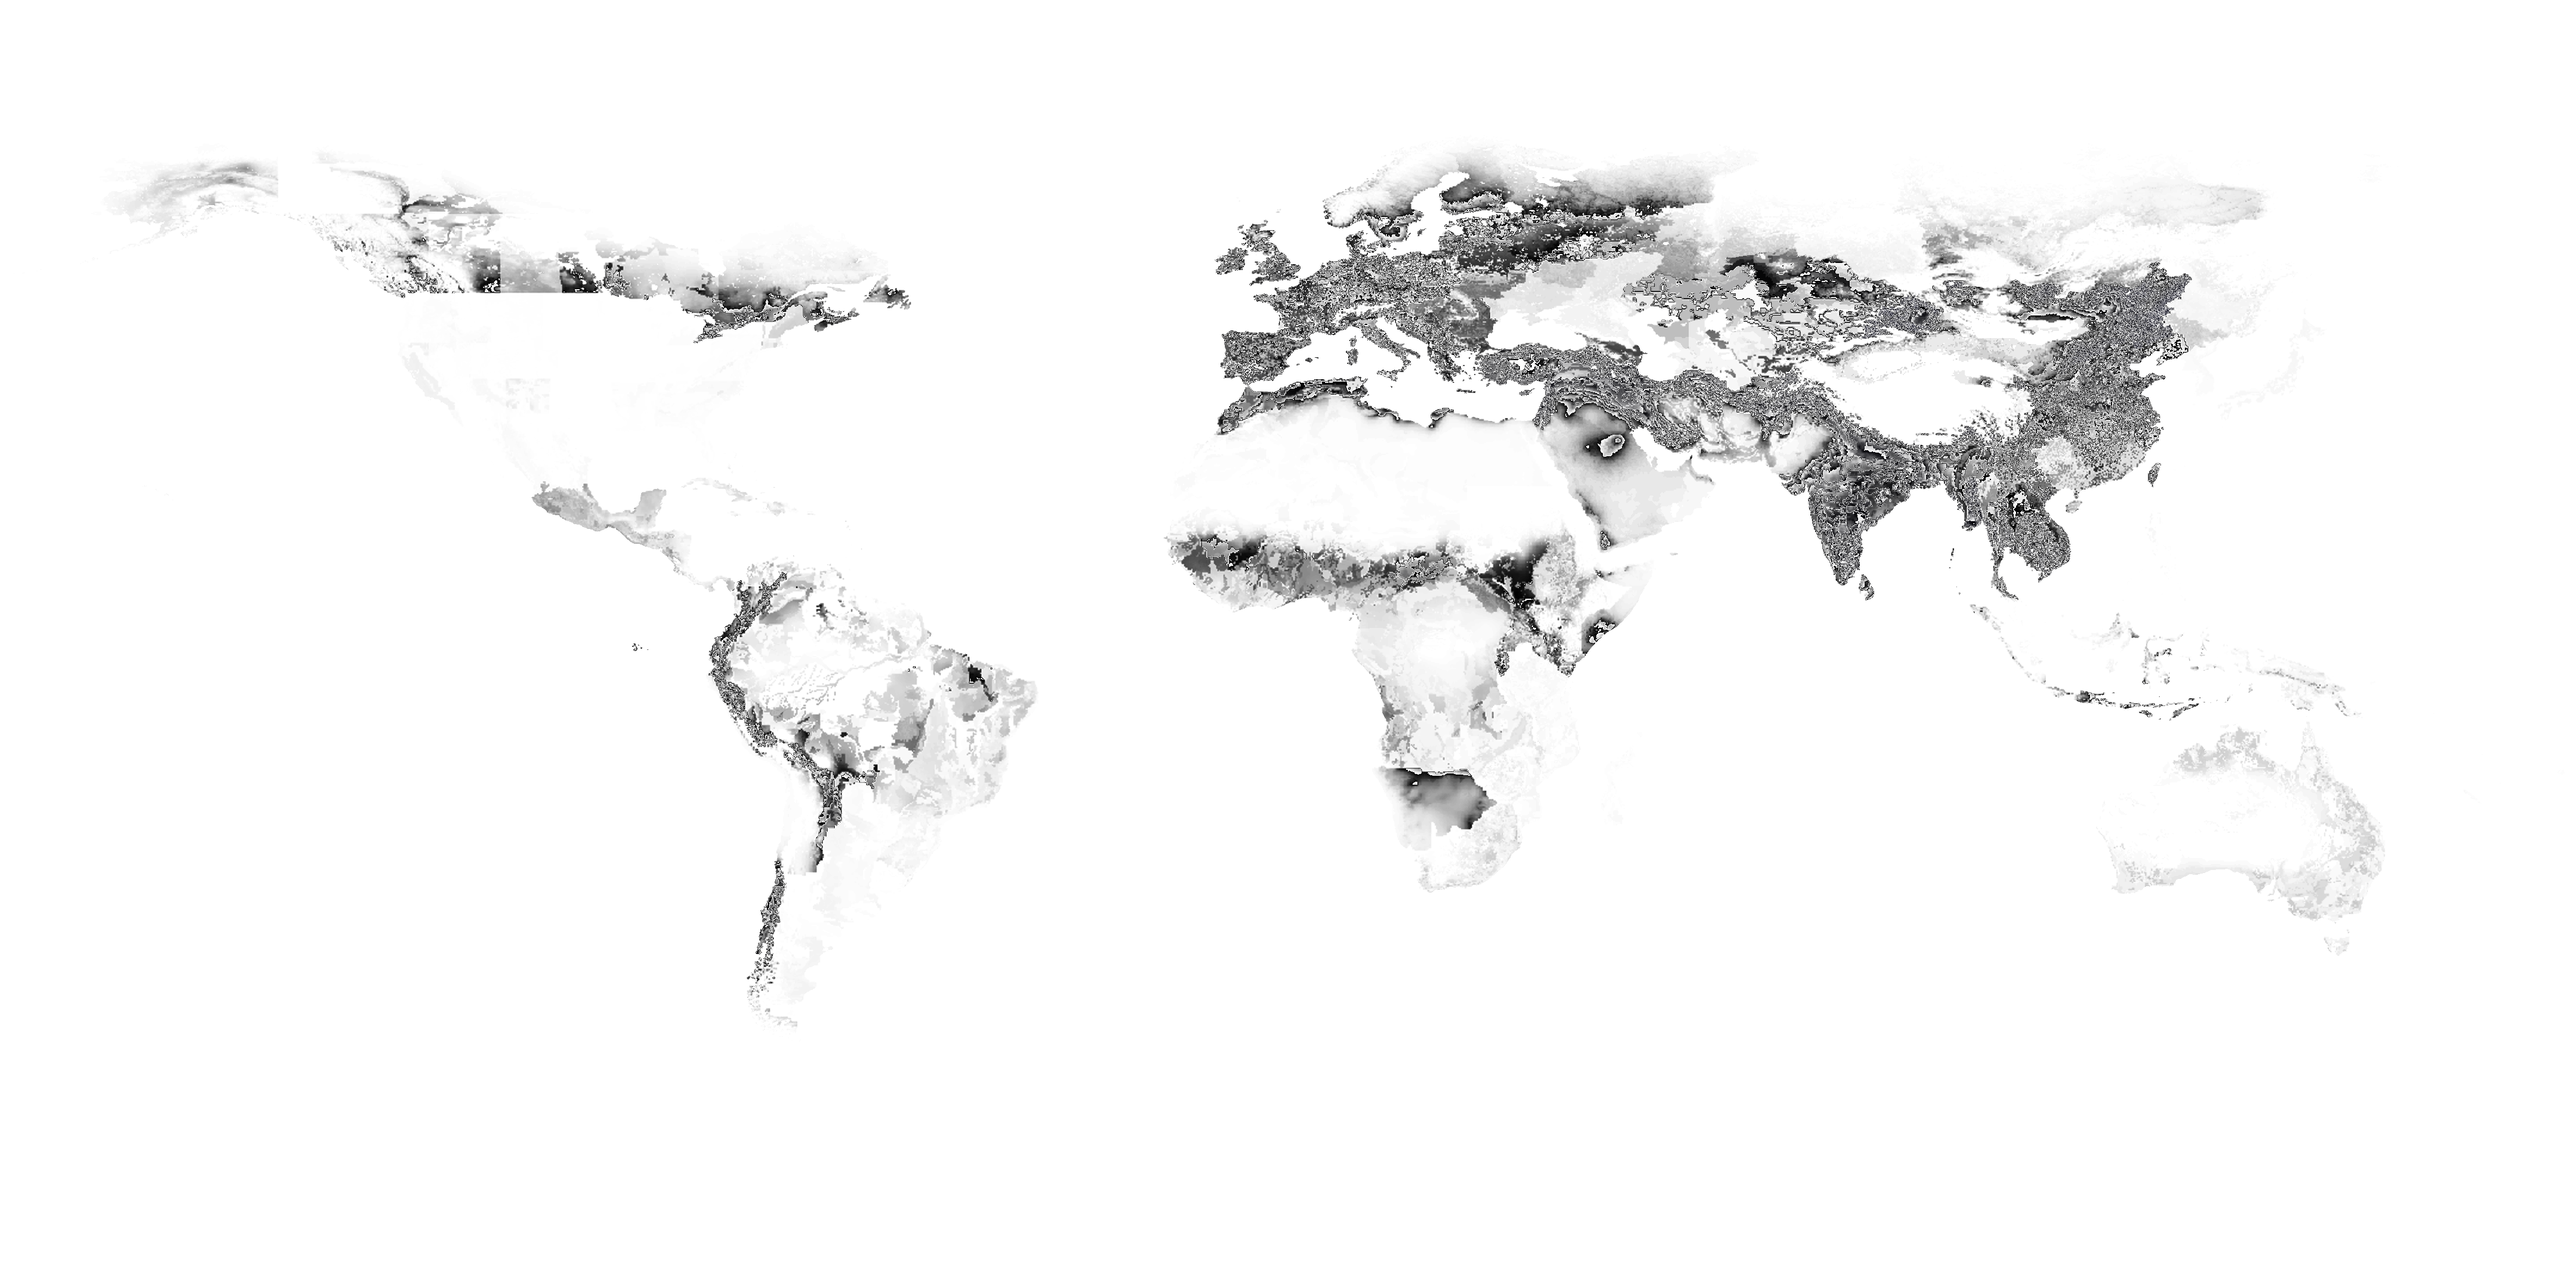
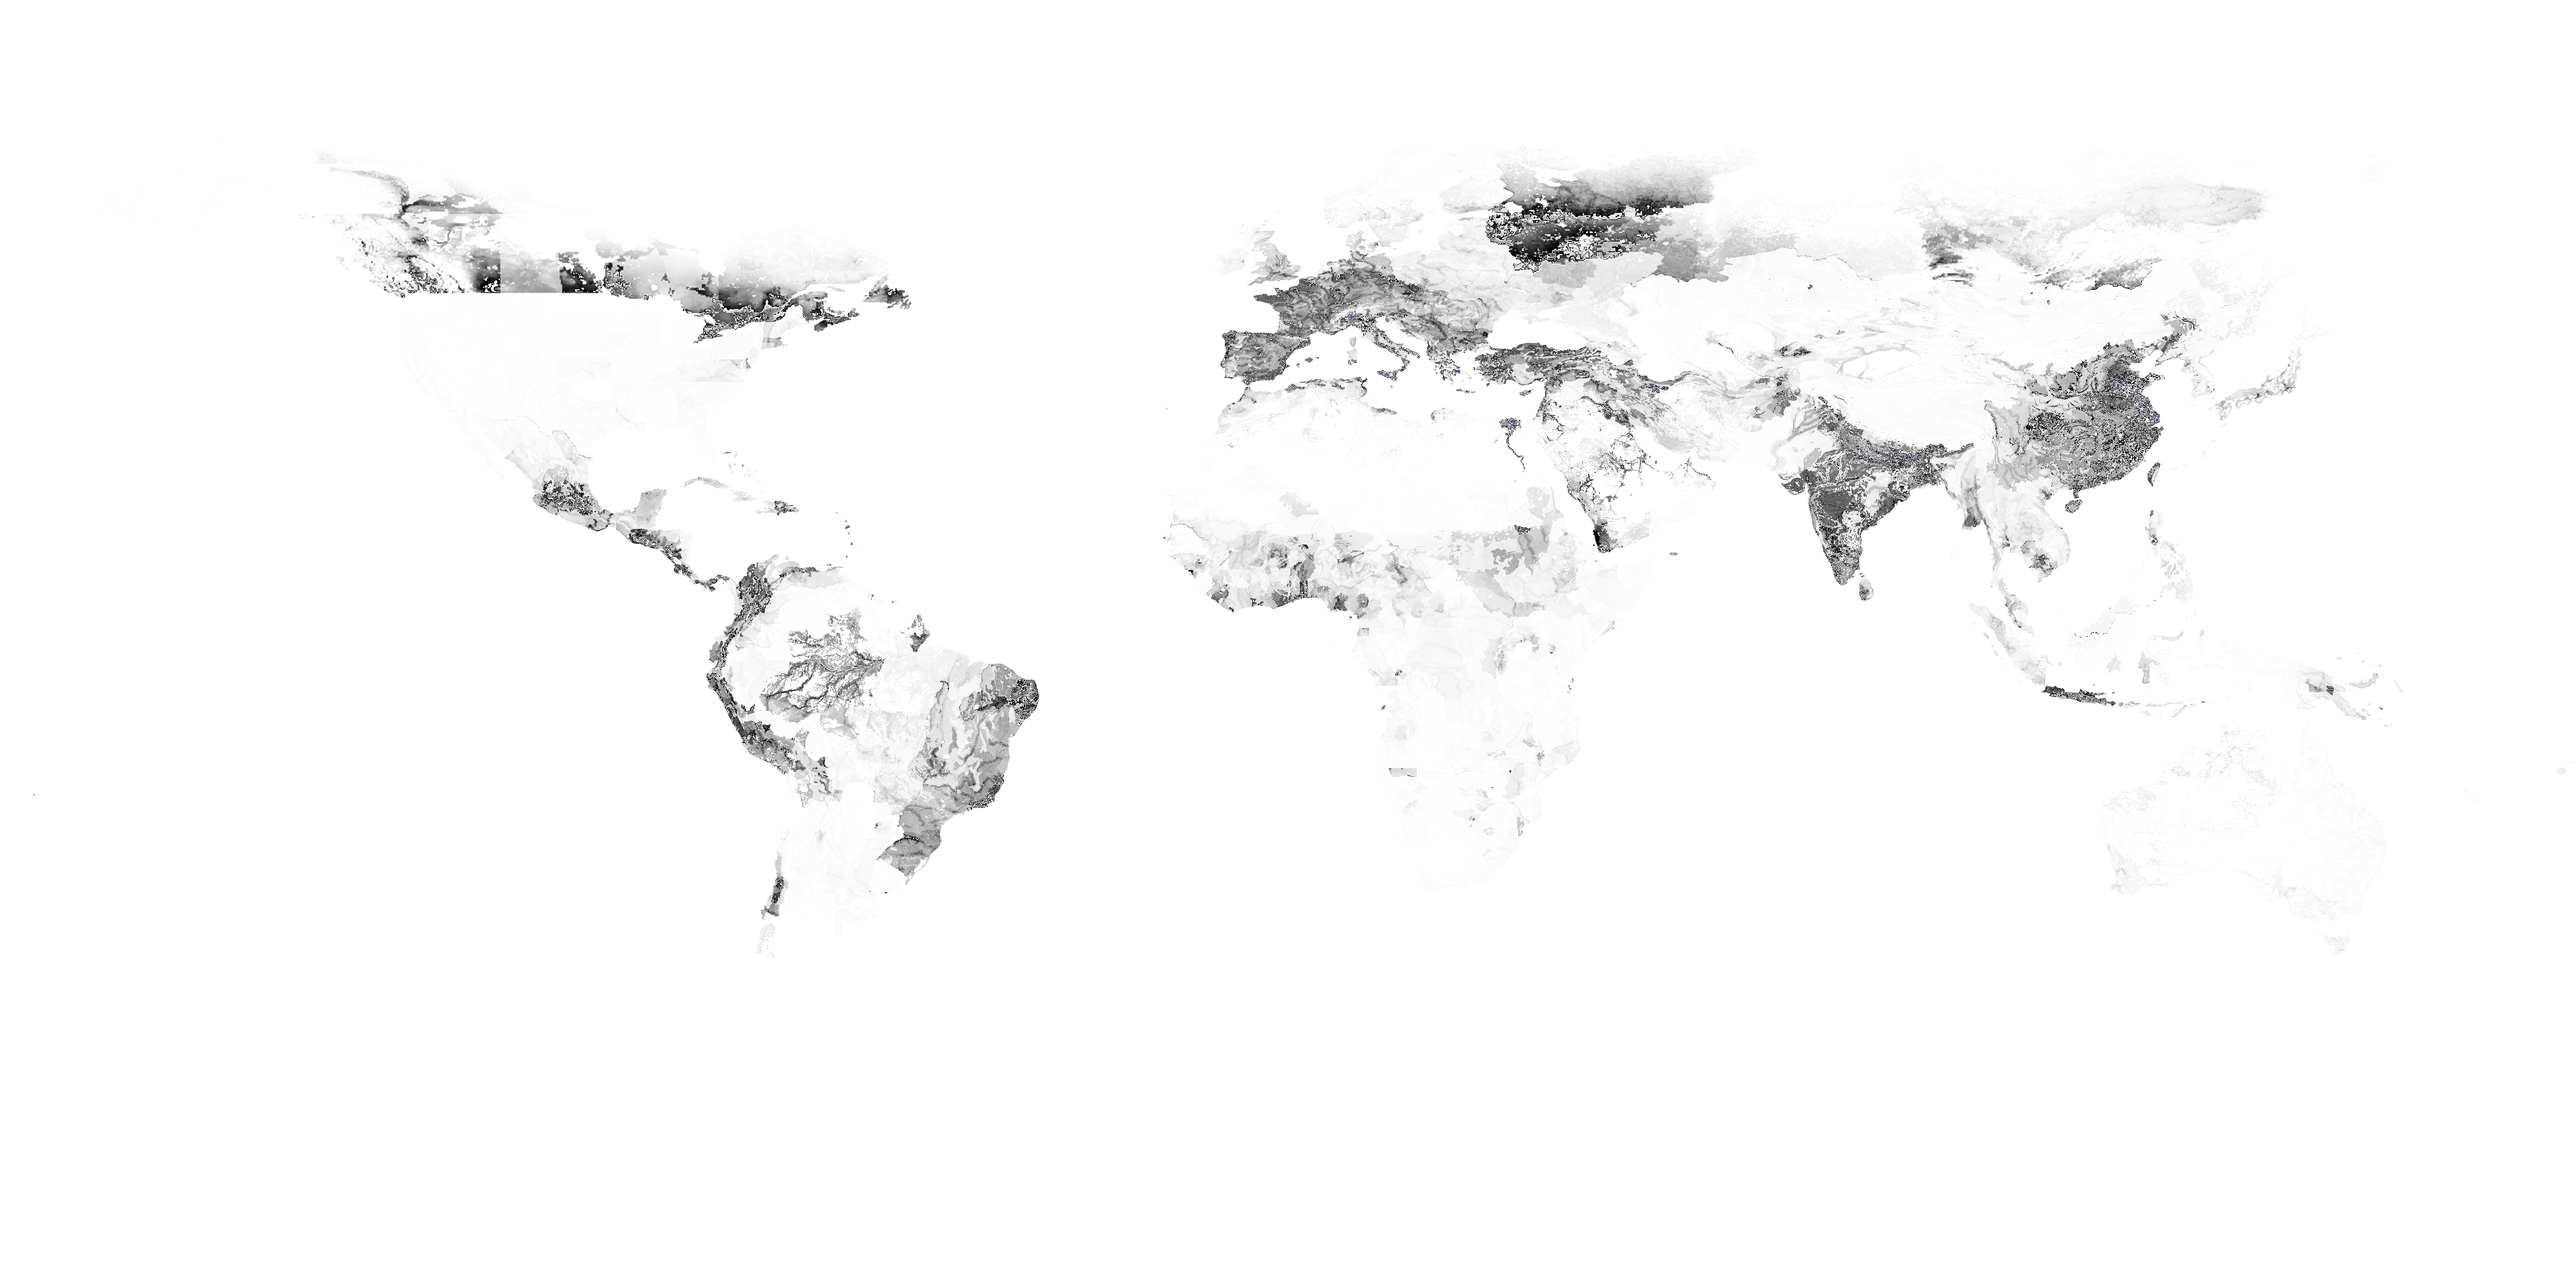
finished processing substrata

diff --git a/core/framework/velkscala/T0_substrata/hyde_outlier_framework.js b/core/framework/velkscala/T0_substrata/hyde_outlier_framework.js
@@ -1,37 +1,19 @@
 //Initialise functions
 {
-	global.getRasterNeighbourAverage = function (arg0_geopng_array, arg1_x, arg2_y, arg3_height, arg4_width) {
-		//Convert from parameters
-		var geopng_array = arg0_geopng_array;
-		var local_x = arg1_x;
-		var local_y = arg2_y;
-		var height = arg3_height;
-		var width = arg4_width;
+	global.checkSubstrataPopulations = function () {
+		var common_defines = config.defines.common;
+		var hyde_years = config.velkscala.hyde.hyde_years;
+		var world_pop_obj = getWorldPopulationObject();
 		
-		//Declare local instance variables
-		var count = 0;
-		var sum = 0;
-		
-		for (let i = -1; i <= 1; i++)
-			for (let x = -1; x <= 1; x++) {
-				if (i == 0 && x == 0) continue;
-				
-				let neighbour_x = local_x + i;
-				let neighbour_y = local_y + x;
-				
-				if (neighbour_x >= 0 && neighbour_x < height && neighbour_y >= 0 && neighbour_y < width) {
-					let local_index = neighbour_x*width + neighbour_y;
-					let local_value = geopng_array[local_index];
-					
-					if (!isNaN(local_value)) {
-						sum += local_value;
-						count++;
-					}
-				}
-			}
-		
-		//Return statement
-		return (count > 0) ? sum/count : NaN;
+		//Iterate over all hyde_years and check population
+		for (let i = 0; i < hyde_years.length; i++) {
+			var local_input_file_path = `${common_defines.input_file_paths.processed_substrata_folder}${common_defines.input_file_paths.processed_substrata_prefix}_${getHYDEYearName(hyde_years[i])}_number.png`;
+			var local_population = getImageSum(local_input_file_path);
+			var local_world_population = world_pop_obj[hyde_years[i]];
+			
+			//Log actual world population vs. model population
+			log.info(`- ${getHYDEYearName(hyde_years[i])} - World Population: ${parseNumber(local_world_population)}, Model Population: ${parseNumber(local_population)}`);
+		}
 	};
 	
 	/**
@@ -46,7 +28,7 @@
 	 *   }
 	 * }}
 	 */
-	global.getHYDEOutlierMasksObject = function () { //[WIP] - Finish function body
+	global.getHYDEOutlierMasksObject = function () {
 		//Declare local instance variables
 		var common_defines = config.defines.common;
 		var hyde_outlier_folder = common_defines.input_file_paths.hyde_outlier_mask_folder;
@@ -84,7 +66,41 @@
 		return return_obj;
 	};
 	
-	global.removeOutliersForHYDE = function () { //[WIP] - Finish function body
+	global.getRasterNeighbourAverage = function (arg0_geopng_array, arg1_x, arg2_y, arg3_height, arg4_width) {
+		//Convert from parameters
+		var geopng_array = arg0_geopng_array;
+		var local_x = arg1_x;
+		var local_y = arg2_y;
+		var height = arg3_height;
+		var width = arg4_width;
+		
+		//Declare local instance variables
+		var count = 0;
+		var sum = 0;
+		
+		for (let i = -1; i <= 1; i++)
+			for (let x = -1; x <= 1; x++) {
+				if (i == 0 && x == 0) continue;
+				
+				let neighbour_x = local_x + i;
+				let neighbour_y = local_y + x;
+				
+				if (neighbour_x >= 0 && neighbour_x < height && neighbour_y >= 0 && neighbour_y < width) {
+					let local_index = neighbour_x*width + neighbour_y;
+					let local_value = geopng_array[local_index];
+					
+					if (!isNaN(local_value)) {
+						sum += local_value;
+						count++;
+					}
+				}
+			}
+		
+		//Return statement
+		return (count > 0) ? sum/count : NaN;
+	};
+	
+	global.removeOutliersForHYDE = function () {
 		//Declare local instance variables
 		var hyde_years = config.velkscala.hyde.hyde_years;
 		
@@ -95,7 +111,7 @@
 		} catch (e) { console.error(e); }
 	}
 	
-	global.removeOutliersForHYDEYear = function (arg0_year) { //[WIP] - Finish function body
+	global.removeOutliersForHYDEYear = function (arg0_year) {
 		//Convert from parameters
 		var year = arg0_year;
 		
@@ -132,6 +148,9 @@
 				if (!isNaN(neighbour_average) && neighbour_average > 0 && hyde_raster.data[local_index] > 8*neighbour_average)
 					hyde_pixel_outliers.push(local_index);
 			}
+		
+		//Log outlier numbers
+		log.info(` - Outliers detected:`, hyde_pixel_outliers.length);
 		
 		//Save number raster image
 		saveNumberRasterImage({
@@ -176,5 +195,43 @@
 				}
 			}
 		});
-	}
+	};
+	
+	global.scaleProcessedHYDEToGlobal = function () {
+		//Declare local instance variables
+		var common_defines = config.defines.common;
+		var hyde_years = config.velkscala.hyde.hyde_years;
+		var world_pop_obj = getWorldPopulationObject();
+		
+		//Iterate over all hyde_years and scale the corresponding raster to the global mean
+		for (let i = 0; i < hyde_years.length; i++) {
+			var local_hyde_file_path = `${common_defines.input_file_paths.hyde_outliers_processed}pop_${getHYDEYearName(hyde_years[i])}_number.png`;
+			var local_output_path = `${common_defines.input_file_paths.processed_substrata_folder}${common_defines.input_file_paths.processed_substrata_prefix}_${getHYDEYearName(hyde_years[i])}_number.png`;
+			var local_world_population = world_pop_obj[hyde_years[i]];
+			
+			if (fs.existsSync(local_hyde_file_path)) {
+				//Fetch current image sum
+				var local_hyde_sum = getImageSum(local_hyde_file_path);
+				var local_scalar = local_world_population/local_hyde_sum;
+				
+				//Multiply raster by local scalar and output it
+				log.info(`- Multiplying corrected HYDE Raster for ${hyde_years[i]} (x${local_scalar}) ..`);
+				
+				var local_hyde_image = loadNumberRasterImage(local_hyde_file_path);
+				saveNumberRasterImage({
+					file_path: local_output_path,
+					height: 2160,
+					width: 4320,
+					
+					function: function (arg0_index) {
+						//Convert from parameters
+						var local_index = arg0_index;
+						
+						//Return statement
+						return Math.ceil(local_hyde_image.data[local_index]*local_scalar);
+					}
+				});
+			}
+		}
+	};
 }

diff --git a/common/defines/common_defines.js b/common/defines/common_defines.js
@@ -20,6 +20,8 @@ config.defines.common = {
       kk10luh2_processed_folder: `./input/velkscala/T0_substrata/KK10LUH2/KK10LUH2_processed/`,
     mcevedy_data: `./input/velkscala/T0_substrata/mcevedy/mcevedy_data.json`,
     mcevedy_subdivisions: `./input/velkscala/T0_substrata/mcevedy/mcevedy_subdivisions.png`,
+    processed_substrata_folder: `./input/velkscala/T0_substrata/processed_substrata/`,
+      processed_substrata_prefix: `substrata_pop_`,
     
     nelson_data: `./input/velkscala/T4_regional/nelson_data.json5`,
     nelson_subdivisions: `./input/velkscala/T4_regional/nelson_regions.png`,
